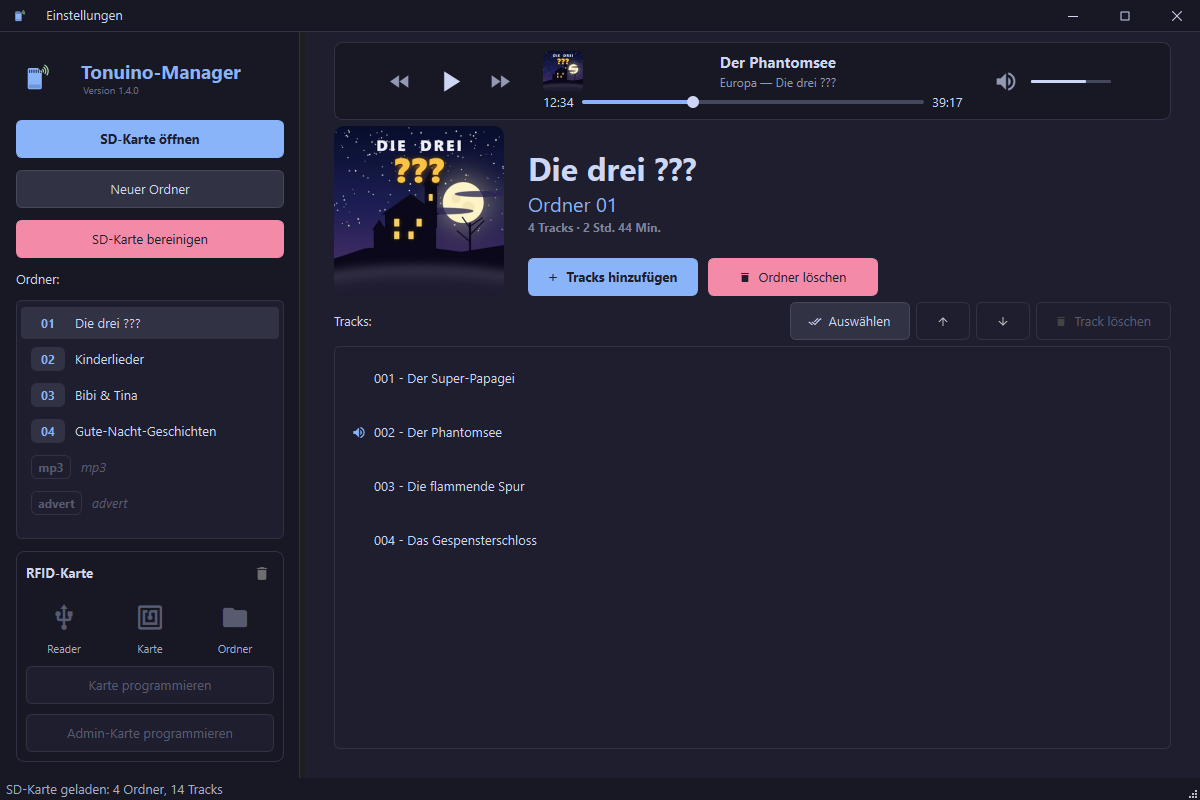
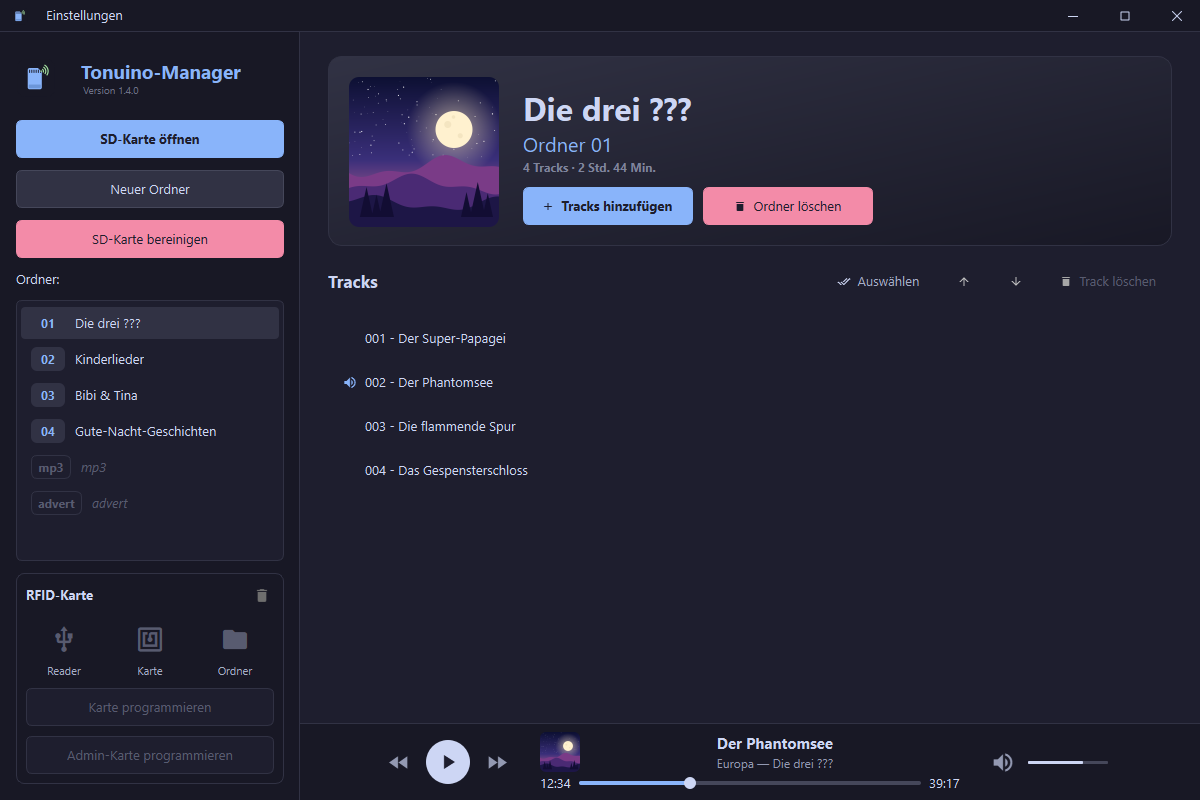
Move player into footer and redesign content area layout
- Player now sits as a full-width footer at the bottom of the content area
- Folder header in a gradient hero card, ghost toolbar buttons, slimmer track rows
- Round play button, hide status bar, remove sidebar splitter handle
- Update README screenshot

diff --git a/src/gui/main_window.py b/src/gui/main_window.py
@@ -44,7 +44,7 @@ class MainWindow(QMainWindow):
     READER_MODE_TONUINO = "tonuino"
 
     # Kantenlaenge (px) des Ordner-Covers im Kopfbereich
-    FOLDER_COVER_SIZE = 170
+    FOLDER_COVER_SIZE = 150
 
     # Breite des Fensterrands (px), an dem unter Windows die Groesse geaendert wird
     RESIZE_BORDER = 6
@@ -124,6 +124,12 @@ class MainWindow(QMainWindow):
         splitter.setSizes([300, 900])
         splitter.setStretchFactor(0, 0)
         splitter.setStretchFactor(1, 1)
+        # Sidebar hat ohnehin feste Breite (siehe _create_sidebar): Griff ohne Breite und abgeschaltet, damit es
+        # weder eine Kante noch den Groessen-Mauszeiger gibt. Die Trennlinie
+        # zieht die Sidebar selbst (border-right).
+        splitter.setChildrenCollapsible(False)
+        splitter.setHandleWidth(0)
+        splitter.handle(1).setEnabled(False)
         
         main_layout.addWidget(splitter)
 
@@ -299,8 +305,13 @@ class MainWindow(QMainWindow):
     def _create_main_content(self) -> QWidget:
         """Erstellt den Hauptbereich"""
         content = QWidget()
-        layout = QVBoxLayout(content)
-        layout.setContentsMargins(20, 10, 20, 20)
+        content_layout = QVBoxLayout(content)
+        content_layout.setContentsMargins(0, 0, 0, 0)
+        content_layout.setSpacing(0)
+
+        body = QWidget()
+        layout = QVBoxLayout(body)
+        layout.setContentsMargins(28, 24, 28, 20)
         layout.setSpacing(16)
 
         self.welcome_widget = QWidget()
@@ -320,9 +331,11 @@ class MainWindow(QMainWindow):
         
         self.folder_widget = QWidget()
         folder_layout = QVBoxLayout(self.folder_widget)
-        folder_layout.setContentsMargins(9, 0, 9, 9)  # oben kein zusaetzlicher Abstand
+        folder_layout.setContentsMargins(0, 0, 0, 0)
+        folder_layout.setSpacing(18)
 
-        # Player ganz oben: Karte in voller Breite, Inhalt zentriert (siehe AudioPlayerBar)
+        # Player als Fusszeile: ganz unten im Inhaltsbereich, ueber die volle Breite
+        # (wird unten nach dem Stack eingefuegt, siehe AudioPlayerBar)
         self.player_bar = AudioPlayerBar()
         self.player_bar.track_info_provider = self._player_track_info
         self.player_bar.prev_clicked.connect(self._play_previous_track)
@@ -331,16 +344,15 @@ class MainWindow(QMainWindow):
         self.player_bar.playback_changed.connect(self._update_player_navigation)
         self.player_bar.play_requested.connect(self._play_selected_track)
 
-        folder_layout.addWidget(self.player_bar)
-
         # Kopfbereich wie in Apple Music: grosses Cover links, rechts Name, Ordner-
         # nummer und Infozeile, darunter (unten buendig mit dem Cover) die Aktionen.
         # Feste Hoehe (= Cover), damit die Stretches im Textblock das Layout nicht
         # vertikal aufblaehen.
-        folder_header = QWidget()
-        folder_header.setFixedHeight(self.FOLDER_COVER_SIZE)
+        folder_header = QFrame()
+        folder_header.setObjectName("heroCard")
+        folder_header.setFixedHeight(self.FOLDER_COVER_SIZE + 2 * 20)
         header_layout = QHBoxLayout(folder_header)
-        header_layout.setContentsMargins(0, 0, 0, 0)
+        header_layout.setContentsMargins(20, 20, 20, 20)
         header_layout.setSpacing(24)
 
         self.cover_label = CoverEditWidget(self.FOLDER_COVER_SIZE)
@@ -394,11 +406,15 @@ class MainWindow(QMainWindow):
         folder_layout.addWidget(folder_header)
 
         track_header_layout = QHBoxLayout()
-        track_header_layout.addWidget(QLabel("Tracks:"))
+        track_header_layout.setSpacing(6)
+        tracks_title = QLabel("Tracks")
+        tracks_title.setObjectName("sectionTitle")
+        track_header_layout.addWidget(tracks_title)
         track_header_layout.addStretch()
 
         self.btn_multi_select = QPushButton(" Auswählen")
         self.btn_multi_select.setIcon(icon_from_glyph("\ue877", color=theme.TEXT))  # Done all
+        self.btn_multi_select.setObjectName("ghostButton")
         self.btn_multi_select.setCheckable(True)
         self.btn_multi_select.setToolTip("Mehrfachauswahl ein-/ausschalten")
         self.btn_multi_select.setEnabled(False)
@@ -407,6 +423,7 @@ class MainWindow(QMainWindow):
 
         self.btn_move_track_up = QPushButton()
         self.btn_move_track_up.setIcon(icon_from_glyph("", color=theme.TEXT))  # Up
+        self.btn_move_track_up.setObjectName("ghostButton")
         self.btn_move_track_up.setToolTip("Track nach oben verschieben")
         self.btn_move_track_up.setEnabled(False)
         self.btn_move_track_up.clicked.connect(lambda: self._move_selected_tracks(-1))
@@ -414,14 +431,15 @@ class MainWindow(QMainWindow):
 
         self.btn_move_track_down = QPushButton()
         self.btn_move_track_down.setIcon(icon_from_glyph("", color=theme.TEXT))  # Down
+        self.btn_move_track_down.setObjectName("ghostButton")
         self.btn_move_track_down.setToolTip("Track nach unten verschieben")
         self.btn_move_track_down.setEnabled(False)
         self.btn_move_track_down.clicked.connect(lambda: self._move_selected_tracks(1))
         track_header_layout.addWidget(self.btn_move_track_down)
 
         self.btn_delete_tracks = QPushButton(" Track löschen")
-        self.btn_delete_tracks.setObjectName("dangerButton")
-        self.btn_delete_tracks.setIcon(icon_from_glyph("", color=theme.BASE))  # Delete
+        self.btn_delete_tracks.setObjectName("ghostDangerButton")
+        self.btn_delete_tracks.setIcon(icon_from_glyph("", color=theme.RED))  # Delete
         self.btn_delete_tracks.setEnabled(False)
         self.btn_delete_tracks.clicked.connect(self._delete_selected_tracks)
         track_header_layout.addWidget(self.btn_delete_tracks)
@@ -429,6 +447,7 @@ class MainWindow(QMainWindow):
         folder_layout.addLayout(track_header_layout)
 
         self.track_list = HoverListWidget()
+        self.track_list.setObjectName("trackList")
         self.track_list.setIconSize(QSize(18, 18))
         self.track_list.hovered_row_changed.connect(self._on_track_hover_changed)
         self.track_list.itemDoubleClicked.connect(self._on_track_double_clicked)
@@ -442,7 +461,10 @@ class MainWindow(QMainWindow):
         self.stack.addWidget(self.folder_widget)
         
         layout.addWidget(self.stack)
-        
+
+        content_layout.addWidget(body, 1)
+        content_layout.addWidget(self.player_bar)
+
         return content
     
     def _setup_statusbar(self):
@@ -450,6 +472,9 @@ class MainWindow(QMainWindow):
         self.status_bar = QStatusBar()
         self.setStatusBar(self.status_bar)
         self.status_bar.showMessage("Bereit")
+        # Ausgeblendet: die Leiste brachte kaum Information. Die Objekt-Referenz
+        # bleibt, damit showMessage()-Aufrufe im Code weiter ins Leere laufen.
+        self.status_bar.hide()
     
     def _check_dependencies(self):
         """Prueft verfuegbare Abhaengigkeiten"""

diff --git a/src/gui/audio_player.py b/src/gui/audio_player.py
@@ -60,6 +60,7 @@ _ICON_VOLUME_OFF = "\ue04f"   # volume_off
 
 # Farbe deaktivierter Steuerelemente (muss zu QSlider:disabled/QLabel:disabled in styles.py passen)
 _DISABLED_COLOR = theme.SURFACE1
+_PLAY_ICON_SIZE = 28  # Symbol im hellen Play-Kreis (Button 44 px)
 
 
 def _transport_icon(glyph: str, size: int, main_color: str, hover_color: str) -> QIcon:
@@ -221,7 +222,7 @@ def _format_time(milliseconds: int) -> str:
 
 
 class AudioPlayerBar(QFrame):
-    """Kompakter, klassischer Player fuer den Kopfbereich (neben dem Cover):
+    """Kompakter, klassischer Player als Fusszeile des Inhaltsbereichs:
     Titel, Zurueck/Play-Pause/Weiter, Fortschritt und Lautstaerke.
     Die Zurueck/Weiter-Navigation kennt selbst keine Ordner-/Tracklogik -
     dafuer werden prev_clicked/next_clicked emittiert, die das Hauptfenster
@@ -241,7 +242,7 @@ class AudioPlayerBar(QFrame):
 
     def __init__(self, parent=None):
         super().__init__(parent)
-        self.setObjectName("cardFrame")
+        self.setObjectName("playerFooter")
 
         self.player = QMediaPlayer(self)
         self.audio_output = QAudioOutput(self)
@@ -291,10 +292,10 @@ class AudioPlayerBar(QFrame):
         transport.addWidget(self.btn_prev, 0, Qt.AlignmentFlag.AlignVCenter)
 
         self.btn_play_pause = QPushButton()
-        self.btn_play_pause.setObjectName("transportButton")
-        self.btn_play_pause.setIcon(_transport_icon(_ICON_PLAY, 40, theme.TEXT, theme.WHITE))
-        self.btn_play_pause.setIconSize(QSize(40, 40))
-        self.btn_play_pause.setFixedSize(46, 46)
+        self.btn_play_pause.setObjectName("playButton")
+        self.btn_play_pause.setIcon(_transport_icon(_ICON_PLAY, _PLAY_ICON_SIZE, theme.BASE, theme.BASE))
+        self.btn_play_pause.setIconSize(QSize(_PLAY_ICON_SIZE, _PLAY_ICON_SIZE))
+        self.btn_play_pause.setFixedSize(44, 44)
         self.btn_play_pause.setCursor(Qt.CursorShape.PointingHandCursor)
         self.btn_play_pause.setEnabled(False)
         self.btn_play_pause.setToolTip("Wiedergabe starten/pausieren")
@@ -441,7 +442,7 @@ class AudioPlayerBar(QFrame):
         QCoreApplication.processEvents()
         self._current_path = None
         self._show_track_info(None, "Kein Track ausgewählt")
-        self.btn_play_pause.setIcon(_transport_icon(_ICON_PLAY, 40, theme.TEXT, theme.WHITE))
+        self.btn_play_pause.setIcon(_transport_icon(_ICON_PLAY, _PLAY_ICON_SIZE, theme.BASE, theme.BASE))
         self._update_play_enabled()
         self._set_loaded_state(False)
         self.seek_slider.setRange(0, 0)
@@ -512,7 +513,7 @@ class AudioPlayerBar(QFrame):
 
     def _on_playback_state_changed(self, state):
         glyph = _ICON_PAUSE if state == QMediaPlayer.PlaybackState.PlayingState else _ICON_PLAY
-        self.btn_play_pause.setIcon(_transport_icon(glyph, 40, theme.TEXT, theme.WHITE))
+        self.btn_play_pause.setIcon(_transport_icon(glyph, _PLAY_ICON_SIZE, theme.BASE, theme.BASE))
         self.playback_changed.emit()
 
     def _on_position_changed(self, position: int):

diff --git a/src/gui/styles.py b/src/gui/styles.py
@@ -280,6 +280,41 @@ QPushButton#dangerButton:disabled {
     border-color: @SURFACE0@;
 }
 
+/* Werkzeugleiste ueber der Track-Liste: flach, nur beim Ueberfahren sichtbar */
+QPushButton#ghostButton,
+QPushButton#ghostDangerButton {
+    background: transparent;
+    border: 1px solid transparent;
+    color: @SUBTEXT0@;
+    padding: 6px 12px;
+}
+
+QPushButton#ghostButton:hover {
+    background-color: @SURFACE0@;
+    color: @TEXT@;
+}
+
+QPushButton#ghostButton:checked {
+    background-color: @BLUE@;
+    color: @BASE@;
+}
+
+QPushButton#ghostDangerButton {
+    color: @RED@;
+}
+
+QPushButton#ghostDangerButton:hover {
+    background-color: @RED@;
+    color: @BASE@;
+}
+
+QPushButton#ghostButton:disabled,
+QPushButton#ghostDangerButton:disabled {
+    background: transparent;
+    border-color: transparent;
+    color: @SURFACE2@;
+}
+
 QPushButton#successButton {
     background-color: @GREEN@;
     color: @BASE@;
@@ -320,6 +355,20 @@ QListWidget::indicator {
 QListWidget::indicator:checked {
     background: qradialgradient(cx:0.5, cy:0.5, radius:0.5, fx:0.5, fy:0.5,
         stop:0 @BLUE@, stop:0.38 @BLUE@, stop:0.5 transparent, stop:1 transparent);
+}
+
+/* Track-Liste: schlanke Zeilen ohne Rahmen */
+QListWidget#trackList {
+    background: transparent;
+    border: none;
+    padding: 0px;
+    outline: none;
+}
+
+QListWidget#trackList::item {
+    padding: 4px 10px;
+    margin: 1px 0px;
+    border-radius: 8px;
 }
 
 QListWidget::item:selected {
@@ -605,6 +654,50 @@ QLabel#playerTitle {
 QLabel#playerMeta {
     font-size: 9pt;
     color: @OVERLAY2@;
+}
+
+/* Kopfkarte des Ordners (Cover, Name, Aktionen) */
+QFrame#heroCard {
+    background: qlineargradient(x1:0, y1:0, x2:1, y2:1, stop:0 @SURFACE0@, stop:1 @MANTLE@);
+    border: 1px solid @SURFACE0@;
+    border-radius: 14px;
+}
+
+QLabel#sectionTitle {
+    font-size: 13pt;
+    font-weight: bold;
+    color: @TEXT@;
+}
+
+/* Play/Pause im Player: heller Kreis */
+QPushButton#playButton,
+QPushButton#playButton:pressed {
+    background-color: @TEXT@;
+    border: none;
+    border-radius: 22px;
+    padding: 0px;
+    min-width: 44px;
+    max-width: 44px;
+    min-height: 44px;
+    max-height: 44px;
+}
+
+QPushButton#playButton:hover {
+    background-color: @WHITE@;
+}
+
+QPushButton#playButton:disabled {
+    background-color: @SURFACE0@;
+    border: none;
+    border-radius: 22px;
+}
+
+/* Player-Fusszeile: buendig am unteren Rand, nur Trennlinie oben */
+QFrame#playerFooter {
+    background-color: @MANTLE@;
+    border: none;
+    border-top: 1px solid @SURFACE0@;
+    border-radius: 0;
 }
 
 /* === Frame === */
